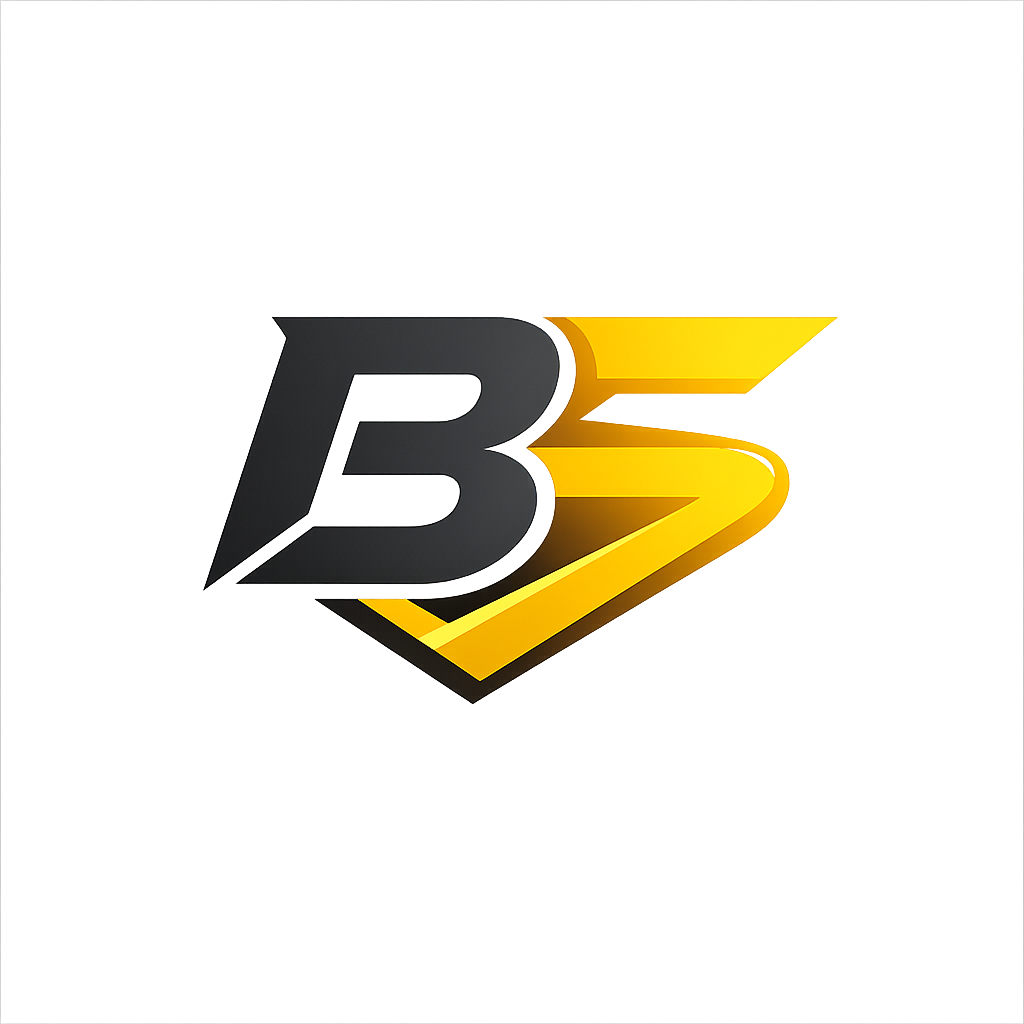
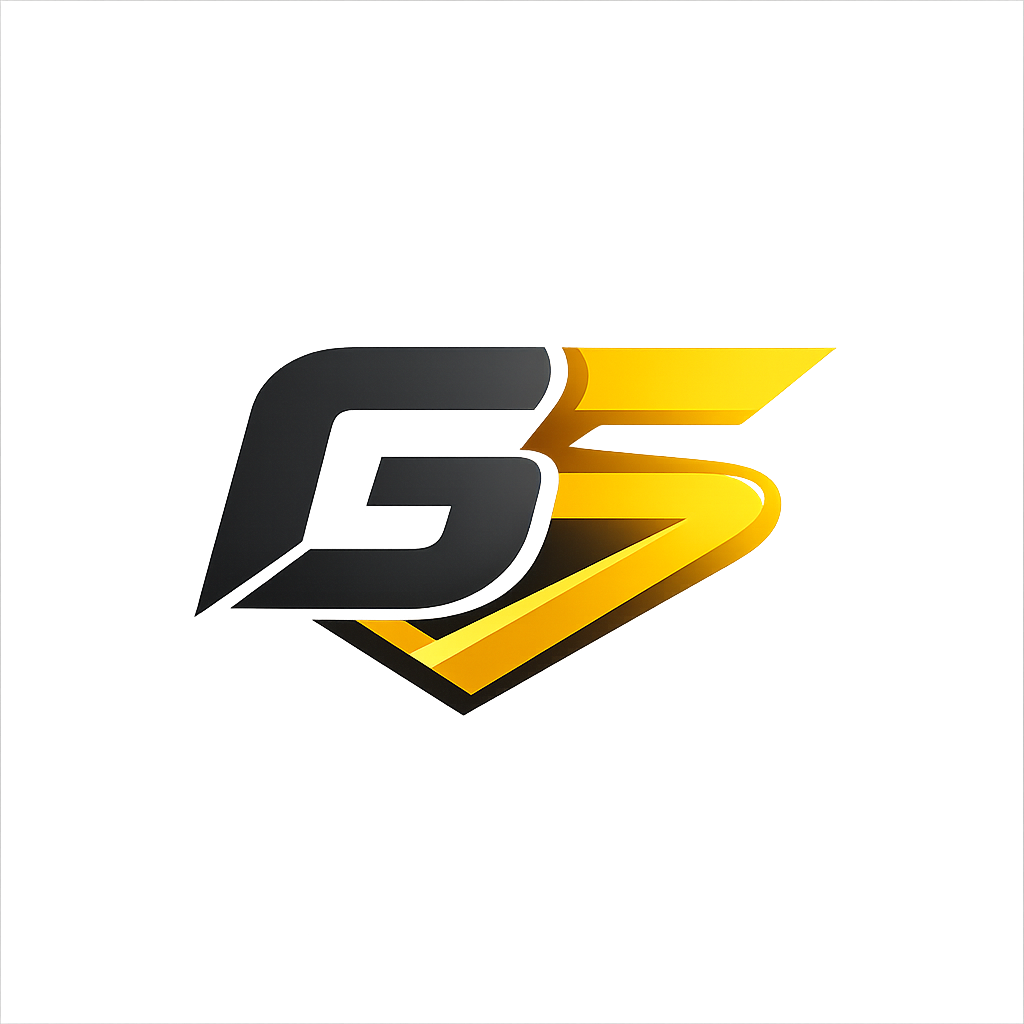
Rebrand to Gemini Super Power
Rename and rebrand the app to "Gemini Super Power" and improve Electron code. Changes include: update README to describe Gemini features and stack, change package.json name/productName, update electron-builder appId/productName and app icon, replace favicon/title in index.html, and update UI branding in src/App.vue. Refactor Electron main and preload outputs for clarity: rename vars, add sanitize/decoding helpers, ensureUniqueDirectory logic, cleaner IPC handlers, and improved preload contextBridge exports. Also update corresponding electron/main.ts to match runtime changes and replace the packaged icon.

Changed region(s): [[0.1875, 0.3125, 0.8125, 0.7188], [0.2188, 0.4062, 0.25, 0.5]]

diff --git a/dist-electron/main.js b/dist-electron/main.js
@@ -1,79 +1,110 @@
-import { ipcMain as p, dialog as a, app as c, BrowserWindow as d } from "electron";
-import { fileURLToPath as D } from "node:url";
-import t from "node:path";
-import { writeFile as m, mkdir as h, access as E } from "node:fs/promises";
-import { constants as j } from "node:fs";
-const P = t.dirname(D(import.meta.url));
-process.env.APP_ROOT = t.join(P, "..");
-const f = process.env.VITE_DEV_SERVER_URL, S = t.join(process.env.APP_ROOT, "dist-electron"), v = t.join(process.env.APP_ROOT, "dist");
-process.env.VITE_PUBLIC = f ? t.join(process.env.APP_ROOT, "public") : v;
-let s;
-function _() {
-  return d.getFocusedWindow() ?? s ?? void 0;
+import { ipcMain, dialog, app, BrowserWindow } from "electron";
+import { fileURLToPath } from "node:url";
+import path from "node:path";
+import { writeFile, mkdir, access } from "node:fs/promises";
+import { constants } from "node:fs";
+const __dirname$1 = path.dirname(fileURLToPath(import.meta.url));
+process.env.APP_ROOT = path.join(__dirname$1, "..");
+const VITE_DEV_SERVER_URL = process.env["VITE_DEV_SERVER_URL"];
+const MAIN_DIST = path.join(process.env.APP_ROOT, "dist-electron");
+const RENDERER_DIST = path.join(process.env.APP_ROOT, "dist");
+process.env.VITE_PUBLIC = VITE_DEV_SERVER_URL ? path.join(process.env.APP_ROOT, "public") : RENDERER_DIST;
+let win;
+function getDialogWindow() {
+  return BrowserWindow.getFocusedWindow() ?? win ?? void 0;
 }
-function O(o, e = "export") {
-  return o.replace(/[<>:"/\\|?*\x00-\x1F]/g, "-").replace(/\s+/g, " ").trim().slice(0, 80) || e;
+function sanitizeFileName(value, fallback = "export") {
+  const sanitized = value.replace(/[<>:"/\\|?*\x00-\x1F]/g, "-").replace(/\s+/g, " ").trim().slice(0, 80);
+  return sanitized || fallback;
 }
-function g(o, e) {
-  if (e === "utf8")
-    return Buffer.from(o, "utf8");
-  if (e === "data-url") {
-    const i = o.split(",", 2)[1] || "";
-    return Buffer.from(i, "base64");
+function decodeContents(contents, encoding) {
+  if (encoding === "utf8") {
+    return Buffer.from(contents, "utf8");
   }
-  return Buffer.from(o, "base64");
+  if (encoding === "data-url") {
+    const base64 = contents.split(",", 2)[1] || "";
+    return Buffer.from(base64, "base64");
+  }
+  return Buffer.from(contents, "base64");
 }
-async function T(o, e) {
-  const i = O(e);
-  let r = t.join(o, i), n = 2;
-  for (; ; )
+async function ensureUniqueDirectory(baseDir, folderName) {
+  const safeName = sanitizeFileName(folderName);
+  let candidate = path.join(baseDir, safeName);
+  let suffix = 2;
+  while (true) {
     try {
-      await E(r, j.F_OK), r = t.join(o, `${i}-${n}`), n += 1;
+      await access(candidate, constants.F_OK);
+      candidate = path.join(baseDir, `${safeName}-${suffix}`);
+      suffix += 1;
     } catch {
-      return await h(r, { recursive: !0 }), r;
+      await mkdir(candidate, { recursive: true });
+      return candidate;
     }
-}
-function R() {
-  s = new d({
-    icon: t.join(process.env.VITE_PUBLIC, "electron-vite.svg"),
-    webPreferences: {
-      preload: t.join(P, "preload.mjs")
-    }
-  }), s.webContents.on("did-finish-load", () => {
-    s == null || s.webContents.send("main-process-message", (/* @__PURE__ */ new Date()).toLocaleString());
-  }), f ? s.loadURL(f) : s.loadFile(t.join(v, "index.html"));
-}
-p.handle("desktop:save-file", async (o, e) => {
-  const i = _(), r = {
-    title: e.title,
-    defaultPath: e.defaultPath,
-    filters: e.filters
-  }, n = i ? await a.showSaveDialog(i, r) : await a.showSaveDialog(r);
-  return n.canceled || !n.filePath ? null : (await m(n.filePath, g(e.contents, e.encoding)), n.filePath);
-});
-p.handle("desktop:save-directory-files", async (o, e) => {
-  const i = _(), r = {
-    title: e.title,
-    properties: ["openDirectory", "createDirectory"]
-  }, n = i ? await a.showOpenDialog(i, r) : await a.showOpenDialog(r);
-  if (n.canceled || n.filePaths.length === 0)
-    return null;
-  const u = await T(n.filePaths[0], e.folderName);
-  for (const l of e.files) {
-    const w = t.join(u, l.relativePath);
-    await h(t.dirname(w), { recursive: !0 }), await m(w, g(l.contents, l.encoding));
   }
-  return u;
+}
+function createWindow() {
+  win = new BrowserWindow({
+    title: "Gemini Super Power",
+    icon: path.join(process.env.VITE_PUBLIC, "icon.png"),
+    webPreferences: {
+      preload: path.join(__dirname$1, "preload.mjs")
+    }
+  });
+  win.webContents.on("did-finish-load", () => {
+    win == null ? void 0 : win.webContents.send("main-process-message", (/* @__PURE__ */ new Date()).toLocaleString());
+  });
+  if (VITE_DEV_SERVER_URL) {
+    win.loadURL(VITE_DEV_SERVER_URL);
+  } else {
+    win.loadFile(path.join(RENDERER_DIST, "index.html"));
+  }
+}
+ipcMain.handle("desktop:save-file", async (_event, payload) => {
+  const browserWindow = getDialogWindow();
+  const options = {
+    title: payload.title,
+    defaultPath: payload.defaultPath,
+    filters: payload.filters
+  };
+  const result = browserWindow ? await dialog.showSaveDialog(browserWindow, options) : await dialog.showSaveDialog(options);
+  if (result.canceled || !result.filePath) {
+    return null;
+  }
+  await writeFile(result.filePath, decodeContents(payload.contents, payload.encoding));
+  return result.filePath;
 });
-c.on("window-all-closed", () => {
-  process.platform !== "darwin" && (c.quit(), s = null);
+ipcMain.handle("desktop:save-directory-files", async (_event, payload) => {
+  const browserWindow = getDialogWindow();
+  const options = {
+    title: payload.title,
+    properties: ["openDirectory", "createDirectory"]
+  };
+  const result = browserWindow ? await dialog.showOpenDialog(browserWindow, options) : await dialog.showOpenDialog(options);
+  if (result.canceled || result.filePaths.length === 0) {
+    return null;
+  }
+  const exportDir = await ensureUniqueDirectory(result.filePaths[0], payload.folderName);
+  for (const file of payload.files) {
+    const targetPath = path.join(exportDir, file.relativePath);
+    await mkdir(path.dirname(targetPath), { recursive: true });
+    await writeFile(targetPath, decodeContents(file.contents, file.encoding));
+  }
+  return exportDir;
 });
-c.on("activate", () => {
-  d.getAllWindows().length === 0 && R();
+app.on("window-all-closed", () => {
+  if (process.platform !== "darwin") {
+    app.quit();
+    win = null;
+  }
 });
-c.whenReady().then(R);
+app.on("activate", () => {
+  if (BrowserWindow.getAllWindows().length === 0) {
+    createWindow();
+  }
+});
+app.whenReady().then(createWindow);
 export {
-  S as MAIN_DIST,
-  v as RENDERER_DIST,
-  f as VITE_DEV_SERVER_URL
+  MAIN_DIST,
+  RENDERER_DIST,
+  VITE_DEV_SERVER_URL
 };

diff --git a/src/App.vue b/src/App.vue
@@ -130,7 +130,7 @@ function confirmDelete() {
          class="h-10 bg-surface border-b border-border flex items-center justify-between px-4 app-region-drag select-none shrink-0">
          <div class="flex items-center gap-4">
             <div class="text-[10px] font-bold tracking-[0.2em] text-textMuted flex items-center">
-               BOLDBRUSH <span class="text-primary ml-1">SUPERPOWER</span>
+               GEMINI <span class="text-primary ml-1">SUPER POWER</span>
             </div>
             <div class="w-px h-4 bg-border"></div>
 

diff --git a/electron/main.ts b/electron/main.ts
@@ -92,7 +92,8 @@ async function ensureUniqueDirectory(baseDir: string, folderName: string) {
 
 function createWindow() {
   win = new BrowserWindow({
-    icon: path.join(process.env.VITE_PUBLIC, 'electron-vite.svg'),
+    title: 'Gemini Super Power',
+    icon: path.join(process.env.VITE_PUBLIC, 'icon.png'),
     webPreferences: {
       preload: path.join(__dirname, 'preload.mjs'),
     },

diff --git a/index.html b/index.html
@@ -2,9 +2,9 @@
 <html lang="en">
   <head>
     <meta charset="UTF-8" />
-    <link rel="icon" type="image/svg+xml" href="/vite.svg" />
+    <link rel="icon" type="image/png" href="/icon.png" />
     <meta name="viewport" content="width=device-width, initial-scale=1.0" />
-    <title>Vite + Vue + TS</title>
+    <title>Gemini Super Power</title>
   </head>
   <body>
     <div id="app"></div>

diff --git a/README.md b/README.md
@@ -1,18 +1,20 @@
-# Vue 3 + TypeScript + Vite
+# Gemini Super Power
 
-This template should help get you started developing with Vue 3 and TypeScript in Vite. The template uses Vue 3 `<script setup>` SFCs, check out the [script setup docs](https://v3.vuejs.org/api/sfc-script-setup.html#sfc-script-setup) to learn more.
+Desktop creative workspace for Gemini image generation, history navigation, layered exports, and non-destructive layer mask editing.
 
-## Recommended IDE Setup
+## Stack
 
-- [VS Code](https://code.visualstudio.com/) + [Volar](https://marketplace.visualstudio.com/items?itemName=Vue.volar) (and disable Vetur) + [TypeScript Vue Plugin (Volar)](https://marketplace.visualstudio.com/items?itemName=Vue.vscode-typescript-vue-plugin).
+- Vue 3
+- TypeScript
+- Vite
+- Electron
+- Tailwind CSS
 
-## Type Support For `.vue` Imports in TS
+## Development
 
-TypeScript cannot handle type information for `.vue` imports by default, so we replace the `tsc` CLI with `vue-tsc` for type checking. In editors, we need [TypeScript Vue Plugin (Volar)](https://marketplace.visualstudio.com/items?itemName=Vue.vscode-typescript-vue-plugin) to make the TypeScript language service aware of `.vue` types.
+- `npm install`
+- `npm run dev`
 
-If the standalone TypeScript plugin doesn't feel fast enough to you, Volar has also implemented a [Take Over Mode](https://github.com/johnsoncodehk/volar/discussions/471#discussioncomment-1361669) that is more performant. You can enable it by the following steps:
+## Build
 
-1. Disable the built-in TypeScript Extension
-   1. Run `Extensions: Show Built-in Extensions` from VSCode's command palette
-   2. Find `TypeScript and JavaScript Language Features`, right click and select `Disable (Workspace)`
-2. Reload the VSCode window by running `Developer: Reload Window` from the command palette.
+- `npm run build`
